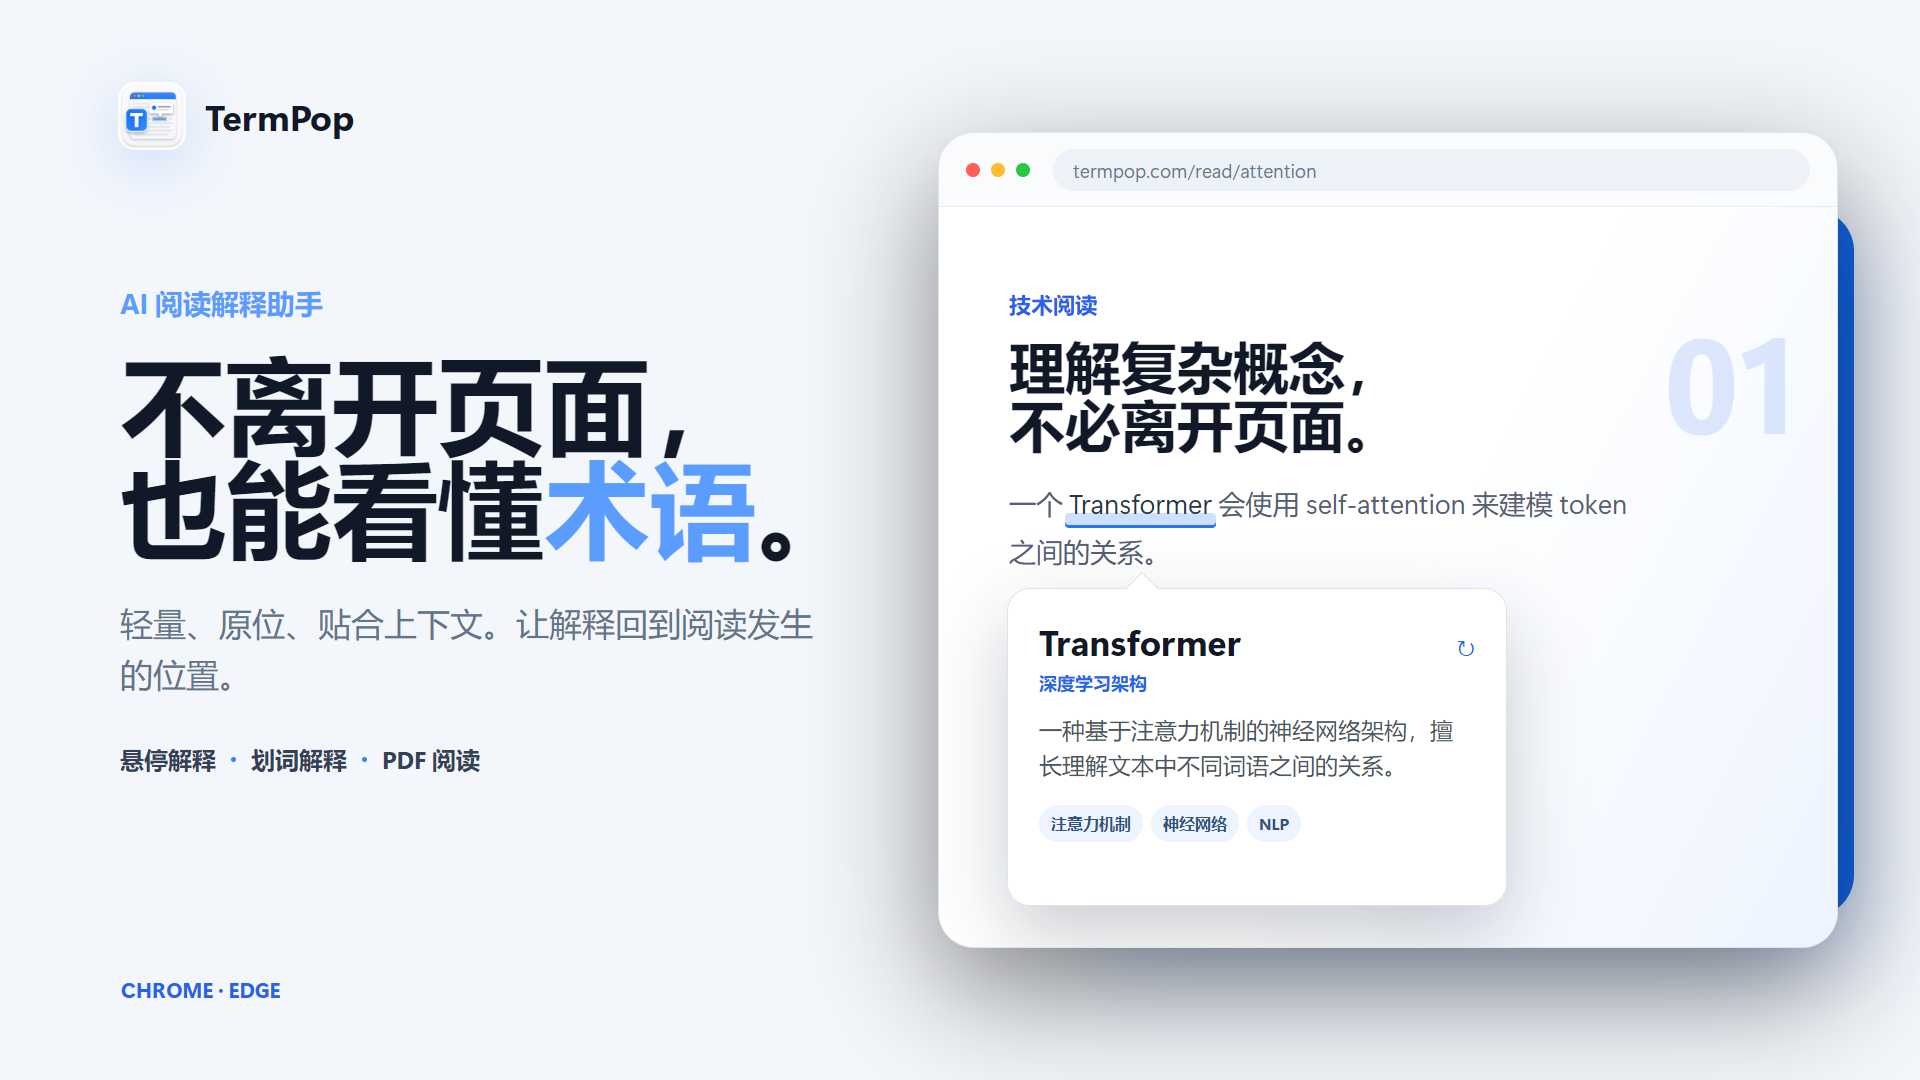
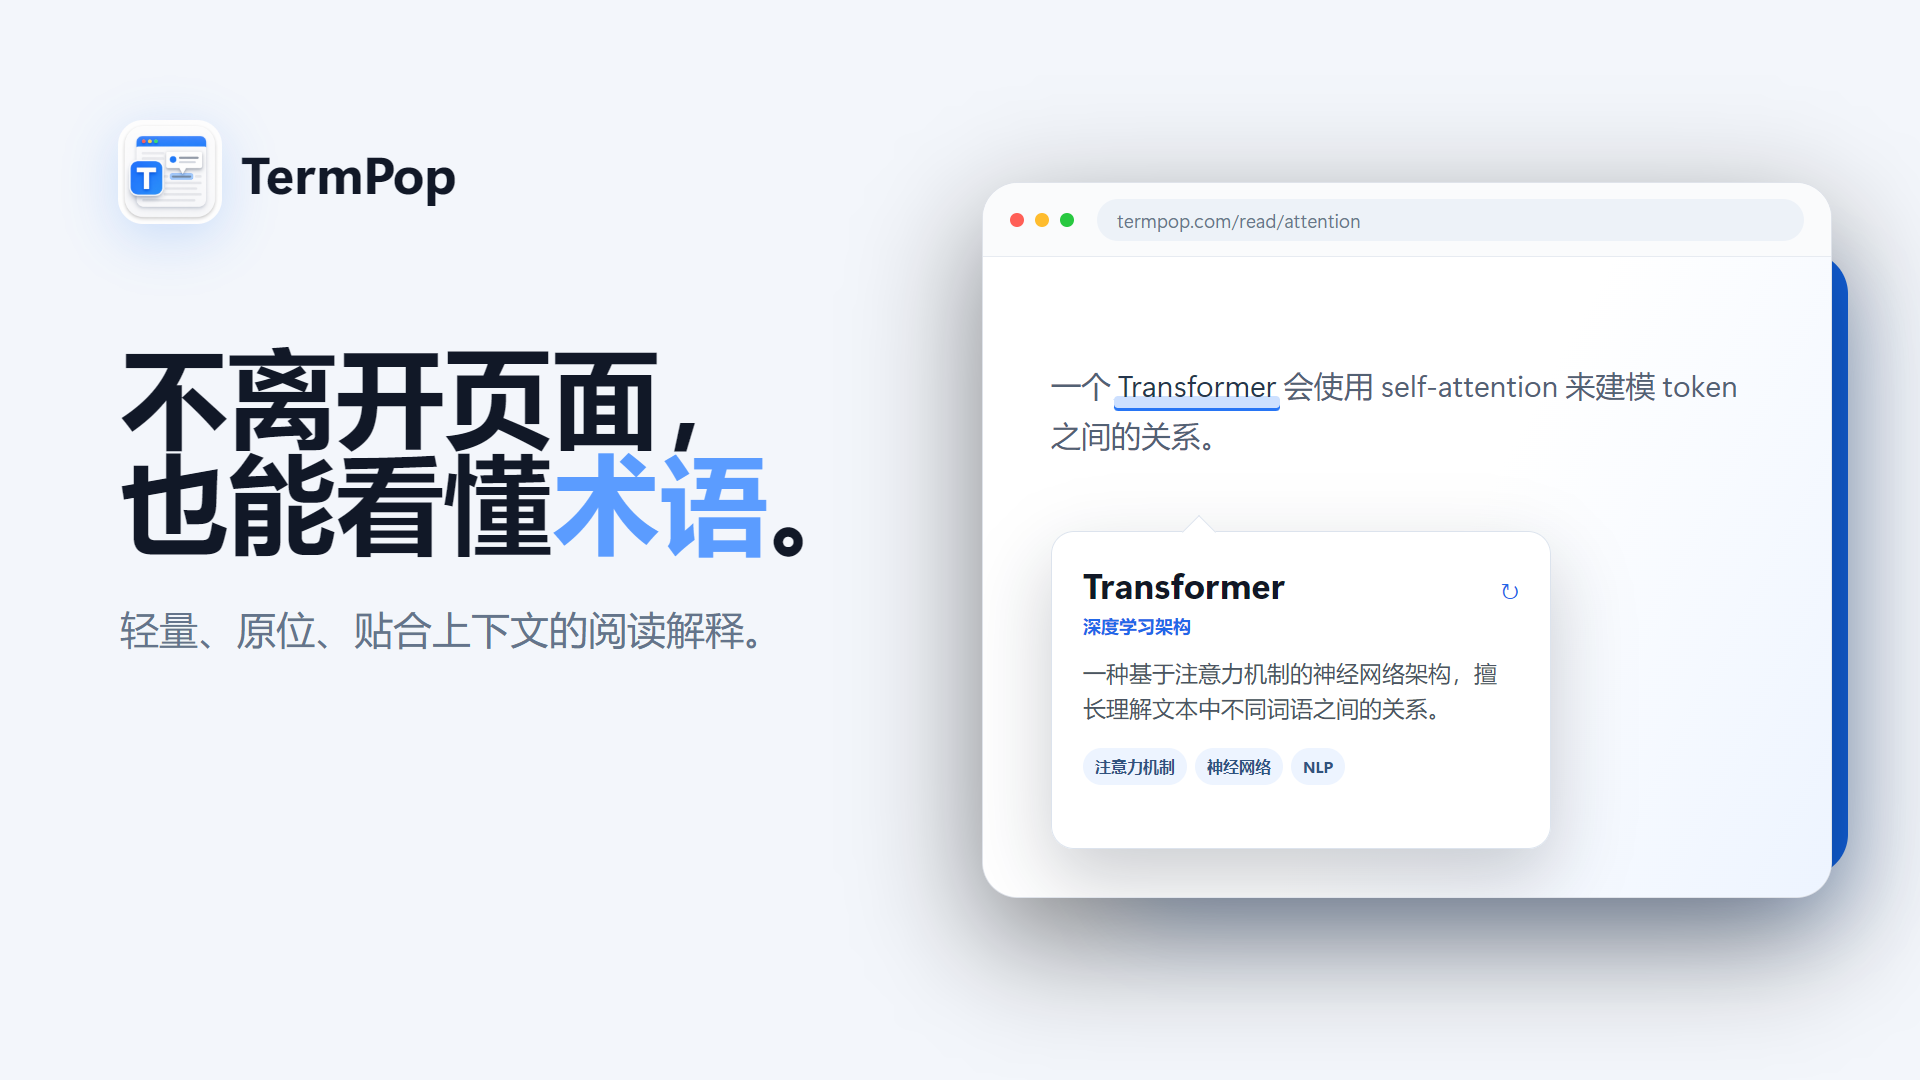
refactor(marketing): simplify promo cover composition

diff --git a/scripts/termpop-promo-cover.html b/scripts/termpop-promo-cover.html
@@ -25,7 +25,7 @@
 
       .brand {
         position: absolute;
-        top: 82px;
+        top: 120px;
         left: 118px;
         display: flex;
         align-items: center;
@@ -34,37 +34,31 @@
       }
 
       .brand img {
-        width: 68px;
-        height: 68px;
-        border-radius: 17px;
+        width: 104px;
+        height: 104px;
+        border-radius: 25px;
         object-fit: contain;
         filter: drop-shadow(0 14px 26px rgba(37, 119, 246, .2));
       }
 
       .brand span {
         color: #111827;
-        font-size: 36px;
-        font-weight: 700;
+        font-size: 52px;
+        font-weight: 740;
       }
 
       .copy {
         position: absolute;
         left: 120px;
-        top: 284px;
+        top: 340px;
         width: 790px;
         z-index: 4;
       }
 
-      .eyebrow {
-        color: #5b9cff;
-        font-size: 28px;
-        font-weight: 720;
-      }
-
       h1 {
-        margin: 28px 0 0;
+        margin: 0;
         color: #111827;
-        font-size: 106px;
+        font-size: 108px;
         font-weight: 770;
         line-height: .98;
         letter-spacing: 0;
@@ -74,45 +68,28 @@
       h1 em { color: #5b9cff; font-style: normal; }
 
       .subtitle {
-        width: 720px;
-        margin: 40px 0 0;
+        width: 750px;
+        margin: 48px 0 0;
         color: #64748b;
-        font-size: 33px;
-        line-height: 1.55;
-      }
-
-      .feature-line {
-        display: flex;
-        align-items: center;
-        gap: 15px;
-        margin-top: 44px;
-        color: #334155;
-        font-size: 24px;
-        font-weight: 660;
-      }
-
-      .feature-line i {
-        width: 5px;
-        height: 5px;
-        border-radius: 50%;
-        background: #3b82f6;
+        font-size: 39px;
+        line-height: 1.45;
       }
 
       .product-stage {
         position: absolute;
-        top: 132px;
-        right: 82px;
-        width: 900px;
-        height: 816px;
+        top: 182px;
+        right: 88px;
+        width: 850px;
+        height: 716px;
         z-index: 2;
       }
 
       .blue-edge {
         position: absolute;
-        top: 41px;
+        top: 34px;
         right: 20px;
-        width: 763px;
-        height: 708px;
+        width: 724px;
+        height: 624px;
         border: 0;
         border-radius: 42px;
         background: #1266e9;
@@ -160,27 +137,20 @@
       .page {
         position: absolute;
         inset: 74px 0 0;
-        padding: 82px 70px;
+        padding: 0;
         color: #111827;
         background: linear-gradient(118deg, #fff 0%, #fff 53%, #edf4ff 100%);
       }
 
-      .kicker { color: #2563eb; font-size: 22px; font-weight: 730; }
-
-      .article-title {
-        width: 620px;
-        margin: 17px 0 28px;
-        font-size: 56px;
-        font-weight: 770;
-        line-height: 1.04;
-      }
-
       .article-copy {
-        width: 650px;
+        position: absolute;
+        left: 68px;
+        top: 104px;
+        width: 720px;
         margin: 0;
         color: #536174;
-        font-size: 27px;
-        line-height: 1.75;
+        font-size: 30px;
+        line-height: 1.65;
       }
 
       .term {
@@ -208,7 +178,7 @@
         position: absolute;
         left: 68px;
         right: auto;
-        bottom: 41px;
+        bottom: 48px;
         width: 500px;
         min-height: 318px;
         padding: 29px 31px 27px;
@@ -244,24 +214,6 @@
       .popover-tags { display: flex; gap: 8px; }
       .popover-tags span { padding: 8px 12px; border-radius: 999px; background: #edf4ff; color: #31537f; font-size: 16px; font-weight: 650; }
 
-      .product-label {
-        position: absolute;
-        right: 39px;
-        top: 105px;
-        color: rgba(37, 99, 235, .14);
-        font-size: 134px;
-        font-weight: 780;
-        line-height: 1;
-      }
-
-      .footer-mark {
-        position: absolute;
-        left: 121px;
-        bottom: 77px;
-        color: #2563eb;
-        font-size: 21px;
-        font-weight: 700;
-      }
     </style>
   </head>
   <body>
@@ -272,10 +224,8 @@
       </div>
 
       <section class="copy">
-        <div class="eyebrow">AI 阅读解释助手</div>
         <h1><span>不离开页面，</span><span>也能看懂<em>术语</em>。</span></h1>
-        <p class="subtitle">轻量、原位、贴合上下文。让解释回到阅读发生的位置。</p>
-        <div class="feature-line"><span>悬停解释</span><i></i><span>划词解释</span><i></i><span>PDF 阅读</span></div>
+        <p class="subtitle">轻量、原位、贴合上下文的阅读解释。</p>
       </section>
 
       <section class="product-stage">
@@ -286,9 +236,6 @@
             <div class="address">termpop.com/read/attention</div>
           </div>
           <div class="page">
-            <div class="product-label">01</div>
-            <div class="kicker">技术阅读</div>
-            <h2 class="article-title">理解复杂概念，<br />不必离开页面。</h2>
             <p class="article-copy">一个 <span class="term"><span>Transformer</span></span> 会使用 self-attention 来建模 token 之间的关系。</p>
             <div class="popover">
               <div class="popover-head"><div class="popover-title">Transformer</div><div class="refresh">↻</div></div>
@@ -299,8 +246,6 @@
           </div>
         </div>
       </section>
-
-      <div class="footer-mark">CHROME · EDGE</div>
     </main>
     <script>
       const term = document.querySelector(".term");
